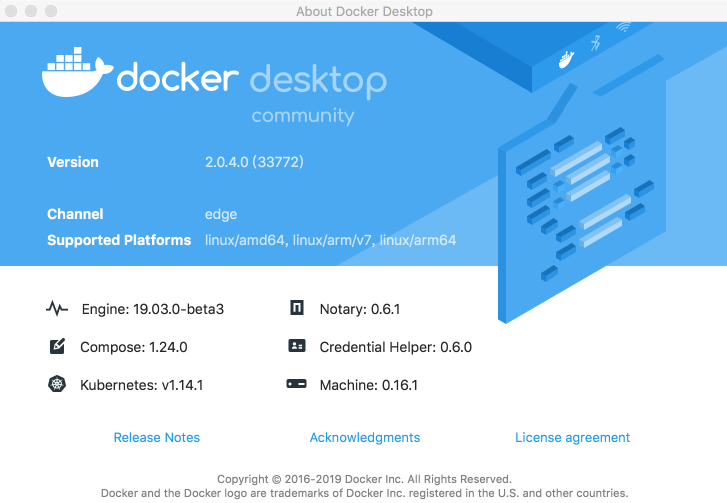
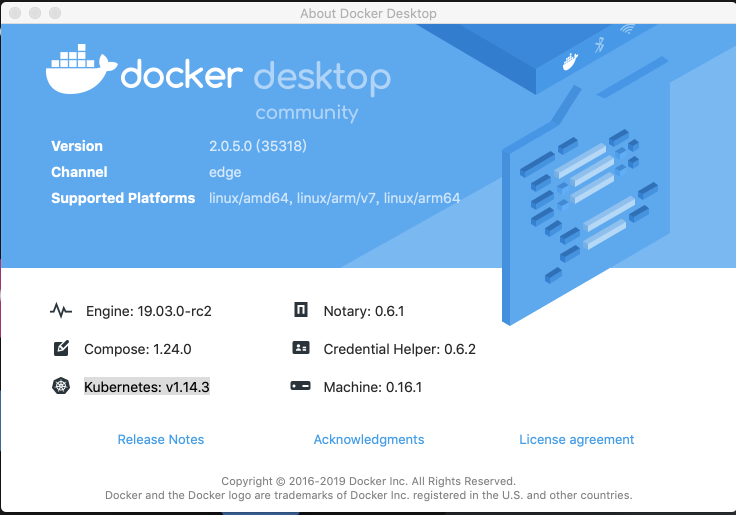
Support Docker Desktop 2.0.5.0/Kubernetes 1.14.3

diff --git a/README.md b/README.md
@@ -5,7 +5,8 @@
 说明: 
 
 * 需安装 Docker Desktop 的 Mac 或者 Windows 版本，如果没有请下载[下载 Docker CE最新版本](https://store.docker.com/search?type=edition&offering=community)
-* 当前 master 分支已经在 Docker for Mac/Windows 2.0.4.x (包含 Docker CE 19.03.0 和 Kubernetes 1.14.1) 版本测试通过
+* 当前 master 分支已经在 Docker for Mac/Windows 2.0.5.x (包含 Docker CE 19.03.0 和 Kubernetes 1.14.3) 版本测试通过
+  * 如果你希望使用 Docker for Mac/Windows 2.0.1.x/2.0.2.x/2.0.3.x (包含 Docker CE 18.09.1 和 Kubernetes 1.14.1) , 请使用下面命令切换 [v1.14.1 分支](https://github.com/AliyunContainerService/k8s-for-docker-desktop/tree/v1.14.1) ```git checkout v1.14.1```
   * 如果你希望使用 Docker for Mac/Windows 2.0.1.x/2.0.2.x/2.0.3.x (包含 Docker CE 18.09.1 和 Kubernetes 1.13.0) , 请使用下面命令切换 [v2.0.1.0 分支](https://github.com/AliyunContainerService/k8s-for-docker-desktop/tree/v2.0.1.0) ```git checkout v2.0.1.0```
   * 如果你希望使用 Docker for Mac/Windows 2.0.0.2/2.0.0.3 (包含 Docker CE 18.09.1 和 Kubernetes 1.10.11) , 请使用下面命令切换 [v2.0.0.2 分支](https://github.com/AliyunContainerService/k8s-for-docker-desktop/tree/v2.0.0.2) ```git checkout v2.0.0.2```
   * 如果你希望使用 18.09/18.06 版本(包含 Kubernetes 1.10.3) , 请使用下面命令切换 [18.09 分支](https://github.com/AliyunContainerService/k8s-for-docker-desktop/tree/18.09) ```git checkout 18.09```
